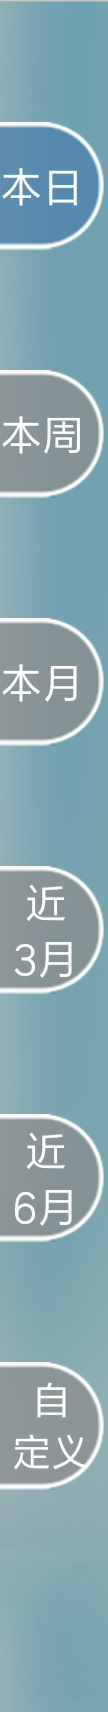
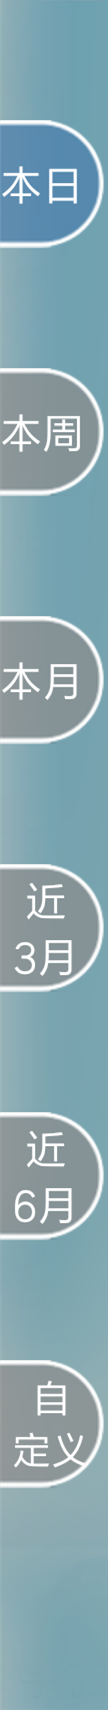
优化建设银行

diff --git a/public/css/bank.css b/public/css/bank.css
@@ -211,7 +211,7 @@ body{
     background: -o-linear-gradient(right, #aac7d0 , #eceeed); /* Opera 11.1 - 12.0 */
     background: -moz-linear-gradient(right, #aac7d0 , #eceeed); /* Firefox 3.6 - 15 */
     background: linear-gradient(to right, #aac7d0  , #eceeed); /* 标准的语法 */
-    height: 90%;
+    height: 97.5%;
     position: absolute;
     top: 6px;
     right: 6px;

diff --git a/routes/bank.js b/routes/bank.js
@@ -29,7 +29,7 @@ router.get('/gs', function(req, res, next) {
 });
 //进入建设银行APP
 router.get('/js', function(req, res, next) {
-    res.render('bank/js', { title: '查询明细' });
+    res.render('bank/js', { title: '账户明细' });
 });
 module.exports = router;
 
